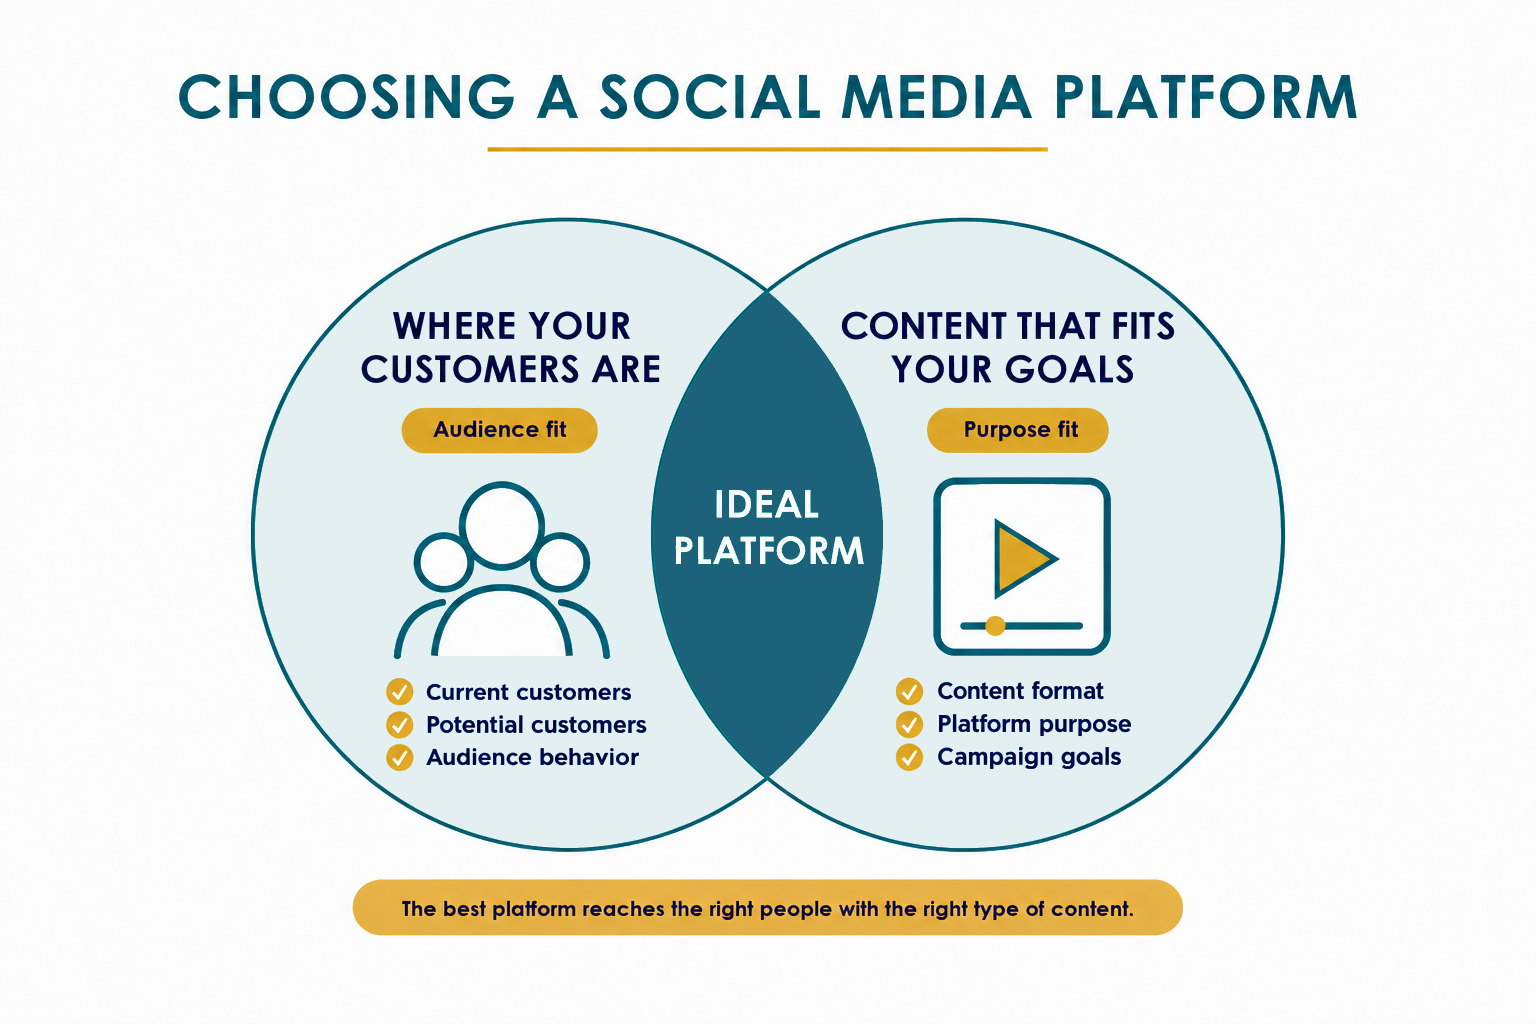
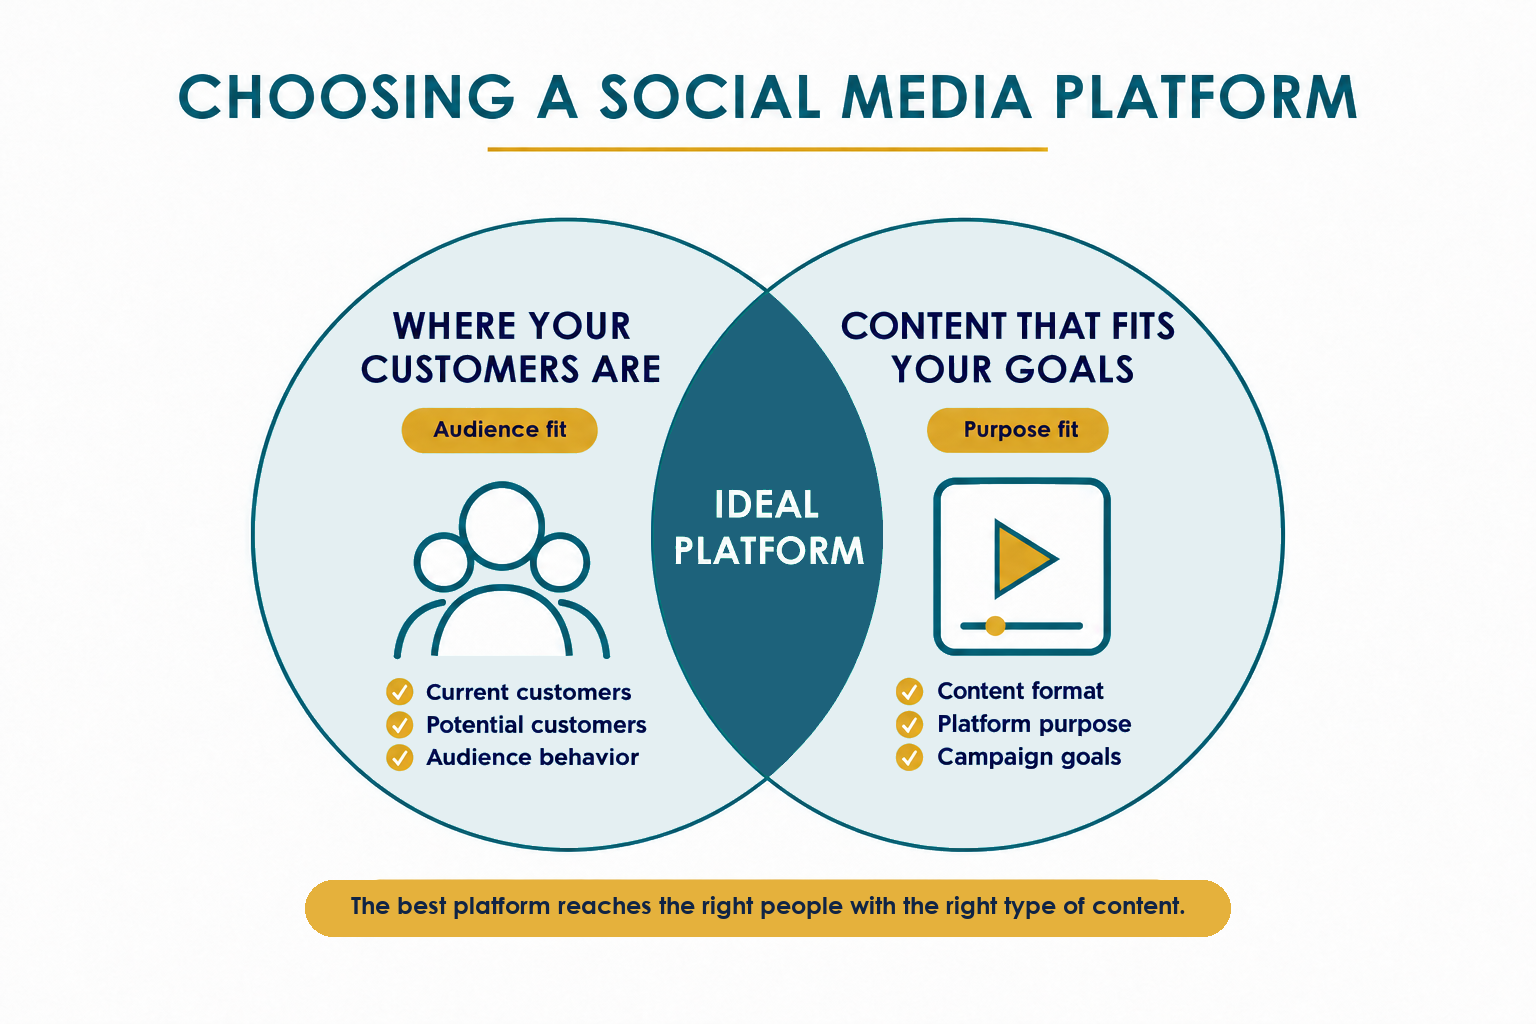
wk6

Changed region(s): [[0.1875, 0.8438, 0.8125, 0.9375]]

diff --git a/Week 6/Week 6 Section 2 Choosing a Platform.html b/Week 6/Week 6 Section 2 Choosing a Platform.html
@@ -15,4 +15,4 @@ h1,h2,h3,p,li{overflow-wrap:anywhere}
 
 @media(max-width:900px){.tooltip-box{position:fixed!important;left:20px!important;right:20px!important;bottom:20px!important;width:auto!important;transform:none!important}}
 </style><style id="week6-width">html,body{width:100%!important;max-width:none!important;margin:0!important;padding:0!important}.course-page,.footer{width:min(100%,1200px)!important;max-width:1200px!important;margin-left:auto!important;margin-right:auto!important}.inner,.course-content{width:100%!important;max-width:1200px!important}</style><style id="source-list-spacing">.content-card ul,.content-card ol,.excerpt ul,.excerpt ol,.overview-copy ul,.overview-copy ol{margin:0 0 16px;padding-left:26px}.content-card li+li,.excerpt li+li,.overview-copy li+li{margin-top:0}.content-card li>ul,.content-card li>ol,.excerpt li>ul,.excerpt li>ol{margin:0;padding-left:26px}</style><style>.source-banner.excerpt{margin:24px 0;padding:20px 22px;border-left:8px solid #ddaf4b;background:#f5f6f7}.source-banner .label{display:block;margin-bottom:8px;color:#1d627b;font-family:"Century Gothic","Aptos Display","Segoe UI",Arial,sans-serif;font-size:15px;font-weight:700;letter-spacing:.08em;text-transform:uppercase;overflow-wrap:anywhere}</style></head>
-<style>.course-page,.footer{width:min(100%,1200px)!important;margin-left:auto!important;margin-right:auto!important}.content-card figure{width:75%;margin:24px auto}.content-card img{max-width:100%;height:auto}.content-card td{border:1px solid #cbd3d8;padding:8px;vertical-align:top}@media(max-width:900px){.content-card figure{width:100%}}</style><body style="color:rgb(32,33,34);font-family:verdana,sans-serif;font-size:12px"><main class="course-page"><header class="course-header"><div class="inner"><p class="week-label" style="margin:0 0 6px;color:#ddaf4b;font-family:Century Gothic,Arial,sans-serif;font-size:20px;font-weight:700;text-transform:uppercase">Section 2</p><h1>Choosing a Platform</h1></div></header><section class="course-content"><aside class="takeaways"><h2>Key Takeaways</h2><ul><li>Choose platforms based on your customers and the content that supports your goals.</li><li>Use competitor research as insight, not a constraint.</li></ul></aside><p class="full-link"><a href="https://kindawilson.github.io/digitalmarketing/Week%206/Week%206%20Section%202%20Choosing%20a%20Platform.html" target="_blank" rel="noopener noreferrer">Open this lesson in full screen</a></p><article class="content-card"><p>Now that we’ve talked about our overall goals and metrics for social media, let’s look at how to choose a platform. This will likely be at least somewhat intuitive for you. When you choose a platform, you need to look at where your customers are and which platform(s) fit the purpose or use that you need (we can also look at it as the type of content that aligns with your goals). </p><p>When choosing platform(s), ask yourself: </p><ol><li> <strong>Where are your customers or potential customers? </strong></li><li><strong>Which platform fits the type of content that aligns with your goals / the purpose or use that you need?</strong></li></ol><figure style="margin:20px auto 24px;max-width:1100px"><img src="https://kindawilson.github.io/digitalmarketing/Week%206/Choosing%20the%20Right%20Social%20Media%20Platform.png" onerror="this.onerror=null;this.src='Choosing%20the%20Right%20Social%20Media%20Platform.png'" alt="Choosing a social media platform: the ideal platform is where your customers are and where the content fits your goals." style="display:block;width:100%;height:auto"></figure><p>When stepping through this with a company or product, you might want to print out our company social media worksheet to brainstorm ideas. </p><h2>1. Finding Where the Customers Are</h2><p>To find where the customers are, let’s look at the demographic and psychographic profiles of the platforms. Look through the data below to find the latest research on who is on each platform. </p><iframe class="section-iframe" src="https://kindawilson.github.io/digitalmarketing/Week%206/US%20Social%20Media%20Platform%20Use.html" title="US Social Media Platform Use" loading="lazy" style="display:block;width:100%;border:0;height:900px;min-height:0" ></iframe><iframe class="section-iframe" src="https://kindawilson.github.io/digitalmarketing/Week%206/Who%20Uses%20Each%20Platform%20-%20Simple%20View.html" title="Who Uses Each Platform - Simple View" loading="lazy" style="display:block;width:100%;border:0;height:900px;min-height:0" ></iframe><h2>2. Looking at Platform Content and Use</h2><p>It’s also important to look at what type of content is being shared and what each platform is used for. For instance, LinkedIn is seen as a professional networking platform, so B2B content such as industry articles would work really well there. Instagram and TikTok are highly visual platforms, with both having substantial video usage. These could work really well for content that has an artistic flair and is expressed well visually (example: cake decorators, painters, etc.). </p><p>X (Twitter) is great for bite-sized information and real-time reporting….and Q&amp;A. So a company that wants to regularly update its followers and also field customer complaints might consider including it as a platform to use (example: an airline).</p><p>These aren’t the limitations of these platforms, but they do give us a good guide for what works well on each.</p><p>Look through the platforms below to get an idea of the ideal types of usage on each. </p><iframe class="section-iframe" src="https://kindawilson.github.io/digitalmarketing/Week%206/Social%20Media%20Platform%20Profiles.html" title="Social Media Platform Profiles" loading="lazy" style="display:block;width:100%;border:0;height:900px;min-height:0" ></iframe><p>We can look at this a slightly different way as well. Instead of starting with the company, we can start with some of the goals/purposes that businesses have on social media and group the platforms together that best fit them. </p><p>Read through the purposes below to see which might be a good fit for your company’s situation</p></div><aside class="excerpt source-banner"><b class="label">Excerpt below adapted from: <a href="https://www.blog2social.com/en/blog/monthly-active-users-in-social-media/" target="_blank" rel="noopener noreferrer">https://www.blog2social.com/en/blog/monthly-active-users-in-social-media/</a></b></aside><h2>The Most Popular Social Networks for Companies</h2><p>Companies are not using social media “on the side” anymore – these channels are tightly aligned with concrete business goals.</p><p><figure><img src="https://kindawilson.github.io/digitalmarketing/Week%206/Week%206%20Source%20Image%2002.png" alt="Illustration from the source lesson document" style="display:block;width:100%;height:auto"></figure></p><h2>What goals sit behind this platform mix</h2><p>Overall, this platform priority supports main corporate objectives:</p><ol><li><strong>Brand awareness</strong><ul><li>Facebook, Instagram, YouTube and TikTok are best for reach and mental availability.</li><li>Visual and video formats (Reels, Shorts, Stories, thumbnails) ensure the brand is repeatedly seen and remembered.</li></ul></li><li><strong>Recruitment and employer branding</strong><ul><li>LinkedIn is the primary driver here, with Facebook and Instagram as supporting stages for behind‑the‑scenes and team stories.</li><li>Companies showcase culture, benefits and career paths to position themselves as attractive employers.</li></ul></li><li><strong>Customer insights and feedback</strong><ul><li>Comments, DMs, reviews, polls and Q&amp;As provide continuous input on products, services and campaigns.</li><li>X/Twitter, Facebook groups, Instagram Stories (polls, question stickers) and community platforms help brands listen and react quickly.</li></ul></li><li><strong>(Added) Positioning / Credibility and expertis</strong>e<ul><li>YouTube and LinkedIn provide longform options to establish credibility - YouTube in a video format and LinkedIn with longer articles and posts. </li><li>Instagram and Facebook allow for shorter, more informal ways to showcase brand expertise or quality.</li></ul></li></ol><h2>3. Looking at Competitors on Social Media</h2><p>A side note here that we can also look at our competitors to see where they are on social media and the type of content they’re sharing. You may get good ideas as to the type of content that is successful and the type of content customers respond to.</p><p>You might also get a good idea for which platforms your competitors are getting the engagement with followers on. </p><p>However, I’d like to add a word of caution to not limit yourself to the platforms your competitors are on. Some companies haven’t fully optimized their potential on social media. They might be overlooking great opportunities. So research where your competitors are and use this as information to see overall situation. Consider it insight - not a hard-line constraint.</p><h2>Summary</h2><p>To summarize, take the knowledge you gained about where your customers are and what platforms usage that you need. The ideal platforms for you will be the ones that have the functionality that you need and will be where your (current and/or potential) customers are. </p><figure style="margin:20px auto 24px;max-width:1100px"><img src="https://kindawilson.github.io/digitalmarketing/Week%206/Choosing%20the%20Right%20Social%20Media%20Platform.png" onerror="this.onerror=null;this.src='Choosing%20the%20Right%20Social%20Media%20Platform.png'" alt="Choosing a social media platform: the ideal platform is where your customers are and where the content fits your goals." style="display:block;width:100%;height:auto"></figure></article></section></main><footer class="footer mceNonEditable" style="border-top: 7px solid #ddaf4b; margin-top: 28px; padding: 30px 24px; background: #4d5259; color: #ffffff; text-align: center;"><div class="footer-inner" style="width: min(100%,1160px); margin: 0 auto; font-size: 14px;"><img src="https://kindawilson.github.io/digitalmarketing/Week%203/Dimensional_V_White_Lockup.png" alt="Vanderbilt University" style="display:block;max-width:260px;width:100%;height:auto;margin:0 auto;"></div></footer><script>window.addEventListener("message",function(e){if(!e.data||e.data.type!=="vanderbilt-iframe-height"||!Number.isFinite(Number(e.data.height)))return;document.querySelectorAll("iframe.section-iframe").forEach(function(f){if(f.contentWindow===e.source)f.style.height=(Math.ceil(Number(e.data.height))+12)+"px"})});</script></body></html>
+<style>.course-page,.footer{width:min(100%,1200px)!important;margin-left:auto!important;margin-right:auto!important}.content-card figure{width:75%;margin:24px auto}.content-card img{max-width:100%;height:auto}.content-card td{border:1px solid #cbd3d8;padding:8px;vertical-align:top}@media(max-width:900px){.content-card figure{width:100%}}</style><body style="color:rgb(32,33,34);font-family:verdana,sans-serif;font-size:12px"><main class="course-page"><header class="course-header"><div class="inner"><p class="week-label" style="margin:0 0 6px;color:#ddaf4b;font-family:Century Gothic,Arial,sans-serif;font-size:20px;font-weight:700;text-transform:uppercase">Section 2</p><h1>Choosing a Platform</h1></div></header><section class="course-content"><aside class="takeaways"><h2>Key Takeaways</h2><ul><li>Choose platforms based on your customers and the content that supports your goals.</li><li>Use competitor research as insight, not a constraint.</li></ul></aside><p class="full-link"><a href="https://kindawilson.github.io/digitalmarketing/Week%206/Week%206%20Section%202%20Choosing%20a%20Platform.html" target="_blank" rel="noopener noreferrer">Open this lesson in full screen</a></p><article class="content-card"><h2>Choosing a Platform</h2><p>Now that we’ve talked about our overall goals and metrics for social media, let’s look at how to choose a platform. This will likely be at least somewhat intuitive for you. When you choose a platform, you need to look at where your customers are and which platform(s) fit the purpose or use that you need (we can also look at it as the type of content that aligns with your goals). </p><p>When choosing platform(s), ask yourself: </p><ol><li> <strong>Where are your customers or potential customers? </strong></li><li><strong>Which platform fits the type of content that aligns with your goals / the purpose or use that you need?</strong></li></ol><figure style="margin:20px auto 24px;max-width:1100px"><img src="https://kindawilson.github.io/digitalmarketing/Week%206/Choosing%20the%20Right%20Social%20Media%20Platform.png" onerror="this.onerror=null;this.src='Choosing%20the%20Right%20Social%20Media%20Platform.png'" alt="Choosing a social media platform: the ideal platform is where your customers are and where the content fits your goals." style="display:block;width:100%;height:auto"></figure><p>When stepping through this with a company or product, you might want to print out our company social media worksheet to brainstorm ideas. </p><h3>1. Finding Where the Customers Are</h3><p>To find where the customers are, let’s look at the demographic and psychographic profiles of the platforms. Look through the data below to find the latest research on who is on each platform. </p><iframe class="section-iframe" src="https://kindawilson.github.io/digitalmarketing/Week%206/US%20Social%20Media%20Platform%20Use.html" title="US Social Media Platform Use" loading="lazy" style="display:block;width:100%;border:0;height:900px;min-height:0" ></iframe><iframe class="section-iframe" src="https://kindawilson.github.io/digitalmarketing/Week%206/Who%20Uses%20Each%20Platform%20-%20Simple%20View.html" title="Who Uses Each Platform - Simple View" loading="lazy" style="display:block;width:100%;border:0;height:900px;min-height:0" ></iframe><h3>2. Looking at Platform Content and Use</h3><p>It’s also important to look at what type of content is being shared and what each platform is used for. For instance, LinkedIn is seen as a professional networking platform, so B2B content such as industry articles would work really well there. Instagram and TikTok are highly visual platforms, with both having substantial video usage. These could work really well for content that has an artistic flair and is expressed well visually (example: cake decorators, painters, etc.). </p><p>X (Twitter) is great for bite-sized information and real-time reporting….and Q&amp;A. So a company that wants to regularly update its followers and also field customer complaints might consider including it as a platform to use (example: an airline).</p><p>These aren’t the limitations of these platforms, but they do give us a good guide for what works well on each.</p><p>Look through the platforms below to get an idea of the ideal types of usage on each. </p><iframe class="section-iframe" src="https://kindawilson.github.io/digitalmarketing/Week%206/Social%20Media%20Platform%20Profiles.html" title="Social Media Platform Profiles" loading="lazy" style="display:block;width:100%;border:0;height:900px;min-height:0" ></iframe><p>We can look at this a slightly different way as well. Instead of starting with the company, we can start with some of the goals/purposes that businesses have on social media and group the platforms together that best fit them. </p><p>Read through the purposes below to see which might be a good fit for your company’s situation</p></div><aside class="excerpt source-banner"><b class="label">Excerpt below adapted from: <a href="https://www.blog2social.com/en/blog/monthly-active-users-in-social-media/" target="_blank" rel="noopener noreferrer">https://www.blog2social.com/en/blog/monthly-active-users-in-social-media/</a></b></aside><h3>The Most Popular Social Networks for Companies</h3><p>Companies are not using social media “on the side” anymore – these channels are tightly aligned with concrete business goals.</p><p><figure><img src="https://kindawilson.github.io/digitalmarketing/Week%206/Week%206%20Source%20Image%2002.png" alt="Illustration from the source lesson document" style="display:block;width:100%;height:auto"></figure></p><h3>What goals sit behind this platform mix</h3><p>Overall, this platform priority supports main corporate objectives:</p><ol><li><strong>Brand awareness</strong><ul><li>Facebook, Instagram, YouTube and TikTok are best for reach and mental availability.</li><li>Visual and video formats (Reels, Shorts, Stories, thumbnails) ensure the brand is repeatedly seen and remembered.</li></ul></li><li><strong>Recruitment and employer branding</strong><ul><li>LinkedIn is the primary driver here, with Facebook and Instagram as supporting stages for behind‑the‑scenes and team stories.</li><li>Companies showcase culture, benefits and career paths to position themselves as attractive employers.</li></ul></li><li><strong>Customer insights and feedback</strong><ul><li>Comments, DMs, reviews, polls and Q&amp;As provide continuous input on products, services and campaigns.</li><li>X/Twitter, Facebook groups, Instagram Stories (polls, question stickers) and community platforms help brands listen and react quickly.</li></ul></li><li><strong>(Added) Positioning / Credibility and expertis</strong>e<ul><li>YouTube and LinkedIn provide longform options to establish credibility - YouTube in a video format and LinkedIn with longer articles and posts. </li><li>Instagram and Facebook allow for shorter, more informal ways to showcase brand expertise or quality.</li></ul></li></ol><h3>3. Looking at Competitors on Social Media</h3><p>A side note here that we can also look at our competitors to see where they are on social media and the type of content they’re sharing. You may get good ideas as to the type of content that is successful and the type of content customers respond to.</p><p>You might also get a good idea for which platforms your competitors are getting the engagement with followers on. </p><p>However, I’d like to add a word of caution to not limit yourself to the platforms your competitors are on. Some companies haven’t fully optimized their potential on social media. They might be overlooking great opportunities. So research where your competitors are and use this as information to see overall situation. Consider it insight - not a hard-line constraint.</p><h2>Summary</h2><p>To summarize, take the knowledge you gained about where your customers are and what platforms usage that you need. The ideal platforms for you will be the ones that have the functionality that you need and will be where your (current and/or potential) customers are. </p><figure style="margin:20px auto 24px;max-width:1100px"><img src="https://kindawilson.github.io/digitalmarketing/Week%206/Choosing%20the%20Right%20Social%20Media%20Platform.png" onerror="this.onerror=null;this.src='Choosing%20the%20Right%20Social%20Media%20Platform.png'" alt="Choosing a social media platform: the ideal platform is where your customers are and where the content fits your goals." style="display:block;width:100%;height:auto"></figure></article></section></main><footer class="footer mceNonEditable" style="border-top: 7px solid #ddaf4b; margin-top: 28px; padding: 30px 24px; background: #4d5259; color: #ffffff; text-align: center;"><div class="footer-inner" style="width: min(100%,1160px); margin: 0 auto; font-size: 14px;"><img src="https://kindawilson.github.io/digitalmarketing/Week%203/Dimensional_V_White_Lockup.png" alt="Vanderbilt University" style="display:block;max-width:260px;width:100%;height:auto;margin:0 auto;"></div></footer><script>window.addEventListener("message",function(e){if(!e.data||e.data.type!=="vanderbilt-iframe-height"||!Number.isFinite(Number(e.data.height)))return;document.querySelectorAll("iframe.section-iframe").forEach(function(f){if(f.contentWindow===e.source)f.style.height=(Math.ceil(Number(e.data.height))+12)+"px"})});</script></body></html>
